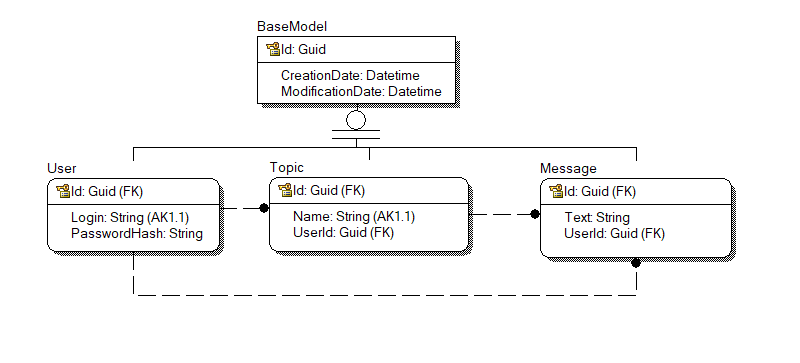
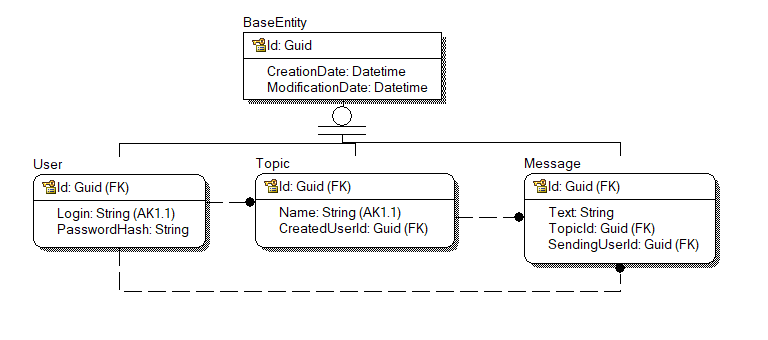
Add Models, DbContext, Repository

Changed region(s): [[0.0312, 0.4412, 0.9375, 0.8235], [0.1562, 0.0294, 0.8125, 0.4412]]

diff --git a/CityForum.Entities/Context.cs b/CityForum.Entities/Context.cs
@@ -1,0 +1,52 @@
+using Microsoft.EntityFrameworkCore;
+using CityForum.Entities.Models;
+
+namespace CityForum.Entities;
+
+public class Context : DbContext
+{
+    public DbSet<User> Users {get; set;}
+    public DbSet<Topic> Topics {get; set;}
+    public DbSet<Message> Messages {get; set;}
+
+    public Context(DbContextOptions<Context> options) : base(options) {}
+
+    protected override void OnModelCreating(ModelBuilder builder)
+    {
+        #region Users
+
+        builder.Entity<User>().ToTable("users");
+        builder.Entity<User>().HasKey(x => x.Id);
+
+        #endregion
+
+        #region Topics
+
+        builder.Entity<Topic>().ToTable("topics");
+        builder.Entity<Topic>().HasKey(x => x.Id);
+        // one-to-many User-Message
+        builder.Entity<Topic>().HasOne(x => x.CreatedUser)
+                                .WithMany(x => x.CreatedTopics)
+                                .HasForeignKey(x => x.CreatedUserId)
+                                .OnDelete(DeleteBehavior.Cascade);
+
+        #endregion
+
+        #region Messages
+        
+        builder.Entity<Message>().ToTable("messages");
+        builder.Entity<Message>().HasKey(x => x.Id);
+        // one-to-many User-Message
+        builder.Entity<Message>().HasOne(x => x.SendingUser)
+                                    .WithMany(x => x.SendingMessages)
+                                    .HasForeignKey(x => x.SendingUserId)
+                                    .OnDelete(DeleteBehavior.Cascade);
+        // one-to-many Topic-Message
+        builder.Entity<Message>().HasOne(x => x.Topic)
+                                    .WithMany(x => x.Messages)
+                                    .HasForeignKey(x => x.TopicId)
+                                    .OnDelete(DeleteBehavior.Cascade);
+
+        #endregion
+    }
+}

diff --git a/CityForum.Repository/Repository.cs b/CityForum.Repository/Repository.cs
@@ -1,0 +1,66 @@
+using CityForum.Entities.Models;
+using System.Linq.Expressions;
+using Microsoft.EntityFrameworkCore;
+using Microsoft.Extensions.Logging;
+
+namespace CityForum.Repository;
+
+public class Repository<T> : IRepository<T> where T : BaseEntity
+{
+    private DbContext _context;
+    private ILogger<Repository<T>> _logger;
+
+    public Repository(DbContext context, ILogger<Repository<T>> logger)
+    {
+        _context = context;
+        _logger = logger;
+    }
+    public void Delete(T obj)
+    {
+        _context.Set<T>().Attach(obj);
+        _context.Entry(obj).State = EntityState.Deleted;
+        _context.SaveChanges();
+    }
+
+    public IQueryable<T> GetAll()
+    {
+        return _context.Set<T>();
+    }
+
+    public IQueryable<T> GetAll(Expression<Func<T, bool>> predicate)
+    {
+        return _context.Set<T>().Where(predicate);
+    }
+
+    public T GetById(Guid id)
+    {
+        return _context.Set<T>().FirstOrDefault(x => x.Id == id);
+    }
+
+    public T Save(T obj)
+    {
+        try
+        {
+            if (obj.IsNew())
+            {
+                obj.Init();
+                var result = _context.Set<T>().Add(obj);
+                _context.SaveChanges();
+                return result.Entity;
+            }
+            else
+            {
+                obj.ModificationTime = DateTime.UtcNow;
+                var result = _context.Set<T>().Attach(obj);
+                _context.Entry(obj).State = EntityState.Modified;
+                _context.SaveChanges();
+                return result.Entity;
+            }
+        }
+        catch (Exception ex)
+        {
+            _logger.LogError(ex.ToString());
+            throw ex;
+        }
+    }
+}

diff --git a/CityForum.WebApi/Program.cs b/CityForum.WebApi/Program.cs
@@ -1,17 +1,30 @@
 using CityForum.WebApi.AppConfiguration.ServicesExtensions;
 using CityForum.WebAPI.AppConfiguration.ApplicationExtensions;
+using CityForum.Entities;
+using CityForum.Repository;
+using Microsoft.EntityFrameworkCore;
 using Serilog;
+
+var configuration = new ConfigurationBuilder()
+.AddJsonFile("appsettings.json")
+.Build();
 
 var builder = WebApplication.CreateBuilder(args);
 
 // Add services to the container.
 
 builder.AddSerilogConfiguration();
+builder.Services.AddDbContextConfiguration(configuration);
 builder.Services.AddVersioningConfiguration();
 builder.Services.AddControllers();
 builder.Services.AddSwaggerConfiguration();
 
+builder.Services.AddScoped<DbContext, Context>();
+builder.Services.AddScoped(typeof(IRepository<>), typeof(Repository<>));
+
 var app = builder.Build();
+
+app.UseSerilogConfiguration();
 
 // Configure the HTTP request pipeline.
 if (app.Environment.IsDevelopment())

diff --git a/CityForum.WebApi/AppConfiguration/ServicesExtensions/AddDbContextConfiguration.cs b/CityForum.WebApi/AppConfiguration/ServicesExtensions/AddDbContextConfiguration.cs
@@ -1,0 +1,26 @@
+using CityForum.Entities;
+using Microsoft.EntityFrameworkCore;
+
+namespace CityForum.WebApi.AppConfiguration.ServicesExtensions;
+
+public static partial class ServicesExtensions
+{
+    /// <summary>
+    /// Add DB context configuration
+    /// </summary>
+    /// <param name="builder"></param>
+    public static void AddDbContextConfiguration(this IServiceCollection services, IConfiguration configuration)
+    {
+        string connectionString = configuration.GetConnectionString("Context");
+        services.AddDbContext<Context>(options =>
+        {
+            options
+                .UseLazyLoadingProxies()
+                .UseSqlServer(connectionString, sqlServerOption =>
+                        {
+                            sqlServerOption.CommandTimeout(60 * 60); // 1 hour
+                        });
+
+        });
+    }
+}

diff --git a/CityForum.Entities/Models/BaseEntity.cs b/CityForum.Entities/Models/BaseEntity.cs
@@ -1,0 +1,20 @@
+namespace CityForum.Entities.Models;
+
+public abstract class BaseEntity
+{
+    public Guid Id { get; set;}
+    public DateTime CreationTime {get; set;}
+    public DateTime ModificationTime {get; set;}
+
+    public bool IsNew()
+    {
+        return Id == Guid.Empty;
+    }
+
+    public void Init()
+    {
+        Id = Guid.NewGuid();
+        CreationTime = DateTime.UtcNow;
+        ModificationTime = DateTime.UtcNow;
+    }
+}

diff --git a/CityForum.Repository/IRepository.cs b/CityForum.Repository/IRepository.cs
@@ -1,0 +1,13 @@
+using System.Linq.Expressions;
+using CityForum.Entities.Models;
+
+namespace CityForum.Repository;
+
+public interface IRepository<T> where T : BaseEntity
+{
+    IQueryable<T> GetAll();
+    IQueryable<T> GetAll(Expression<Func<T, bool>> predicate);
+    T GetById(Guid id);
+    T Save(T obj);
+    void Delete(T obj);
+}

diff --git a/CityForum.Entities/Models/Message.cs b/CityForum.Entities/Models/Message.cs
@@ -1,0 +1,12 @@
+namespace CityForum.Entities.Models;
+
+public class Message : BaseEntity
+{
+    public string Text {get; set;}
+    
+    public Guid TopicId {get; set;}
+    public virtual Topic Topic {get; set;}
+
+    public Guid SendingUserId {get; set;}
+    public virtual User SendingUser {get; set;}
+}

diff --git a/CityForum.Entities/Models/User.cs b/CityForum.Entities/Models/User.cs
@@ -1,0 +1,10 @@
+namespace CityForum.Entities.Models;
+
+public class User : BaseEntity
+{
+    public string Login {get; set;}
+    public string PasswordHash {get; set;}
+
+    public virtual ICollection<Topic> CreatedTopics {get; set;}
+    public virtual ICollection<Message> SendingMessages {get; set;}
+}

diff --git a/CityForum.Entities/Models/Topic.cs b/CityForum.Entities/Models/Topic.cs
@@ -1,0 +1,11 @@
+namespace CityForum.Entities.Models;
+
+public class Topic : BaseEntity
+{
+    public string Name {get; set;}
+
+    public Guid CreatedUserId {get; set;}
+    public virtual User CreatedUser {get; set;}
+
+    public virtual ICollection<Message> Messages {get; set;}
+}
